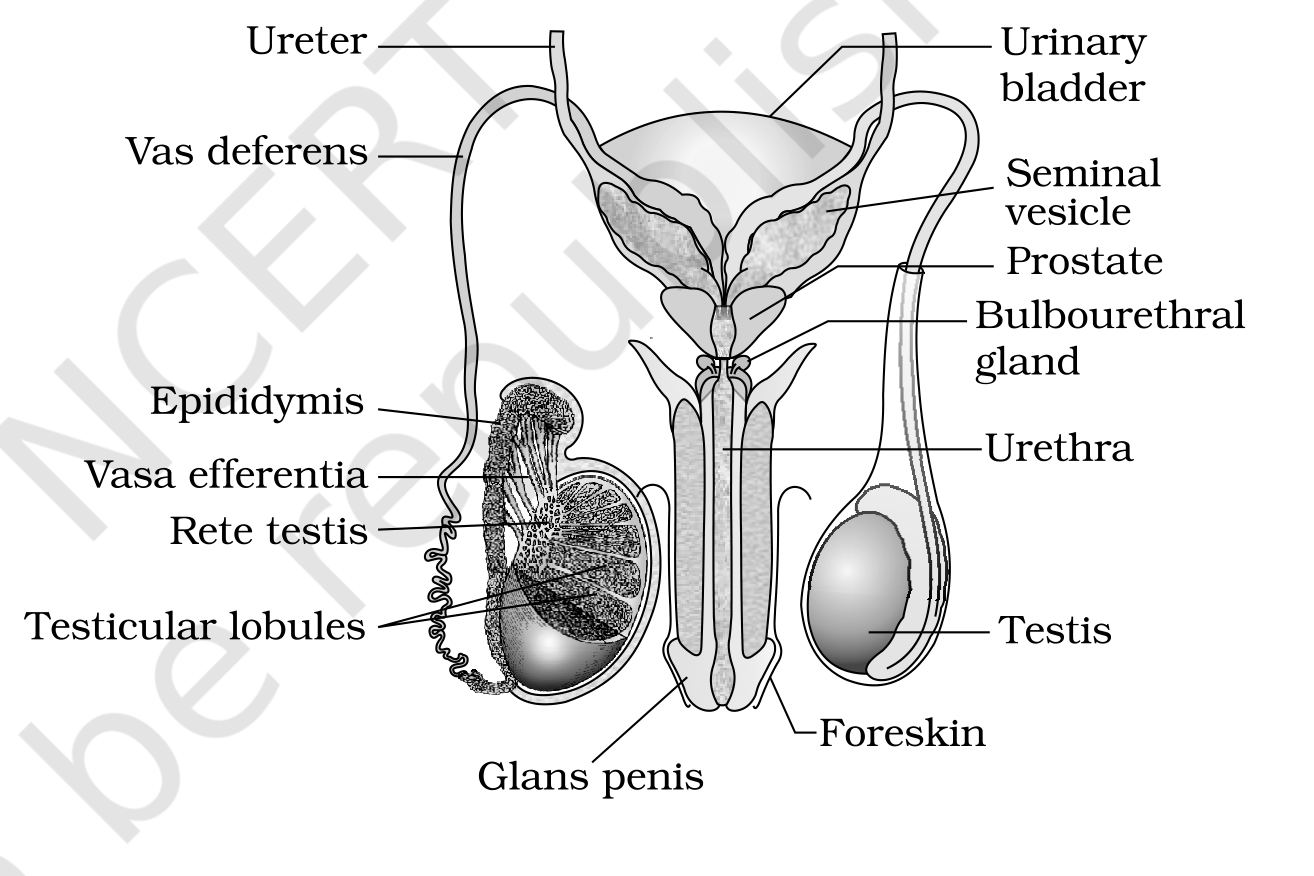
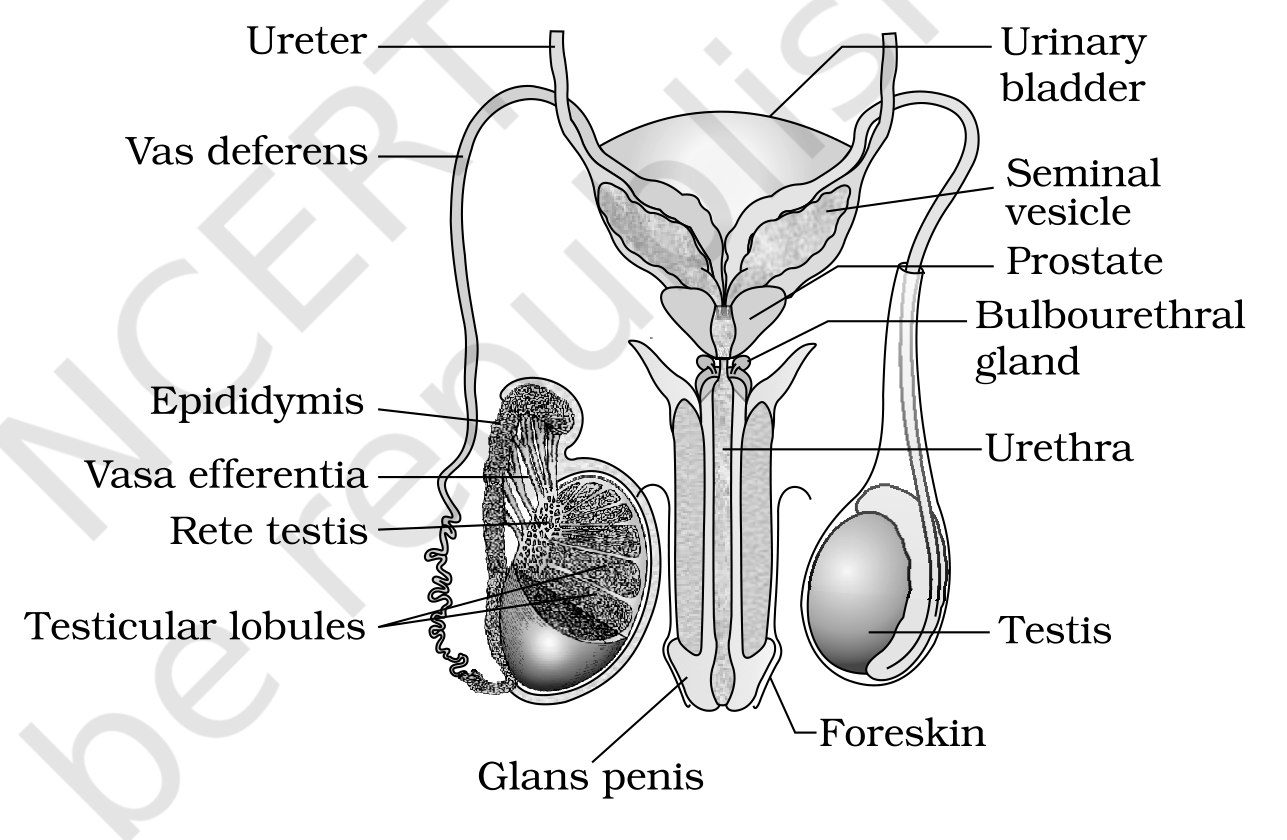
Tighten selected Human Reproduction figure crops

diff --git a/notes/class 12/Ch2_HumanReproduction/extract_figures.py b/notes/class 12/Ch2_HumanReproduction/extract_figures.py
@@ -1,50 +1,56 @@
-"""§4.4 figure extraction for Class 12 Ch2 Human Reproduction.
+"""§4.4 reproducible figure extraction for Class 12 Ch2 Human Reproduction.
 
-Rectangles are source-PDF points, freshly cross-checked against the 4× grid
-rendered from the current source PDF. Captions and page furniture are excluded.
-All output assets are rendered at 300 dpi and converted to true grayscale with
-Pillow autocontrast.
+Rectangles are source-PDF points, cross-checked against the fresh 4× grids.
+Captions and page furniture are excluded. Outputs are rendered at 300 dpi,
+converted to true grayscale, and tightened to approximately 10 pt padding
+around meaningful printed figure ink. Figure 2.1a additionally removes the
+adjacent prose strip while preserving every anatomical label.
 """
 import os
 import sys
+import numpy as np
 import pymupdf
 from PIL import Image, ImageOps
 
 SRC = 'Chapter/class 12/Chapter 2 - Human Reproduction.pdf'
 OUT_DIR = 'notes/class 12/Ch2_HumanReproduction/assets'
 RENDER_DPI = 300
+PAD = round(10 / 72 * RENDER_DPI)
 
-# (asset_id, 1-indexed PDF page, (x0, y0, x1, y1))
 FIGS = [
-    # p2 upper male-pelvis diagram; clears prose column and caption below y300.
-    ('2_1a', 2, (235, 78, 545, 260)),
-    # p2 lower male reproductive-system diagram; bottom clears page furniture.
+    ('2_1a', 2, (195, 78, 545, 260)),
     ('2_1b', 2, (215, 315, 530, 525)),
-    # p3 seminiferous-tubule plate; caption begins below the artwork.
     ('2_2', 3, (160, 82, 535, 345)),
-    # p4 upper female-pelvis plate; caption begins below y350.
     ('2_3a', 4, (35, 78, 500, 335)),
-    # p4 lower female-system plate; caption begins below y690.
     ('2_3b', 4, (38, 465, 485, 675)),
-    # p5 mammary-gland diagram; caption begins below y690.
     ('2_4', 5, (172, 445, 520, 680)),
-    # p6 enlarged seminiferous tubule; caption begins below y605.
     ('2_5', 6, (268, 355, 530, 555)),
-    # p7 sperm structure; caption begins below y385.
     ('2_6', 7, (48, 82, 290, 350)),
-    # p8 ovary section; caption begins below y315.
     ('2_7', 8, (240, 78, 510, 270)),
-    # p8 combined spermatogenesis/oogenesis schematic with shared annotations.
     ('2_8', 8, (35, 340, 540, 565)),
-    # p9 full menstrual-cycle chart; caption begins below y475.
     ('2_9', 9, (112, 78, 520, 480)),
-    # p10 ovum and sperm diagram; caption begins below y700.
     ('2_10', 10, (225, 430, 475, 665)),
-    # p11 connected multi-stage transport/fertilisation/implantation figure.
     ('2_11', 11, (120, 400, 495, 645)),
-    # p12 foetus within uterus; caption begins below y700.
-    ('2_12', 12, (190, 465, 470, 680)),
+    ('2_12', 12, (190, 465, 510, 680)),
 ]
+
+# The requested set is tightened; 2.8 appeared twice in the user request.
+TIGHT_IDS = {'2_8', '2_12', '2_1a', '2_3b', '2_3a', '2_11', '2_1b'}
+
+def tighten(img, fid):
+    a = np.asarray(img)
+    ys, xs = np.where(a < 100)  # suppress faint watermark/page furniture
+    if len(xs) == 0:
+        return img
+    x0 = max(0, int(xs.min()) - PAD)
+    y0 = max(0, int(ys.min()) - PAD)
+    x1 = min(img.width, int(xs.max()) + 1 + PAD)
+    y1 = min(img.height, int(ys.max()) + 1 + PAD)
+    if fid == '2_1a':
+        # The source prose column touches the left raster edge; remove it
+        # without cutting the first anatomical label.
+        x0 = min(x1 - 1, max(x0, 82))
+    return img.crop((x0, y0, x1, y1))
 
 def main():
     os.makedirs(OUT_DIR, exist_ok=True)
@@ -54,10 +60,13 @@ def main():
             page = doc[pno - 1]
             clip = pymupdf.Rect(*rect) & page.rect
             pix = page.get_pixmap(clip=clip, dpi=RENDER_DPI, alpha=False)
-            img = ImageOps.autocontrast(Image.frombytes('RGB', (pix.width, pix.height), pix.samples).convert('L'), cutoff=1)
+            img = Image.frombytes('RGB', (pix.width, pix.height), pix.samples).convert('L')
+            img = ImageOps.autocontrast(img, cutoff=1)
+            if fid in TIGHT_IDS:
+                img = tighten(img, fid)
             out = os.path.join(OUT_DIR, f'fig_{fid}.png')
             img.save(out)
-            print(f'fig_{fid}: page {pno} rect={rect} size={img.size} mode={img.mode} -> {out}')
+            print(f'fig_{fid}: page={pno} rect={rect} size={img.size} mode={img.mode} -> {out}')
     finally:
         doc.close()
 

diff --git a/notes/class 12/Ch2_HumanReproduction/Ch2_figure_audit.md b/notes/class 12/Ch2_HumanReproduction/Ch2_figure_audit.md
@@ -48,3 +48,7 @@ Run from the repository root:
 [1]: `../../../../Chapter/class 12/Chapter 2 - Human Reproduction.pdf` "NCERT Biology, Class 12, Chapter 2: Human Reproduction"
 [2]: `../../../../SUPREME COMMAND PROMPT.md` "Repository SUPREME COMMAND prompt"
 [3]: `../../../../skills/ncert-figure-extraction/SKILL.md` "ncert-figure-extraction workflow"
+
+## User-requested tight-crop revision
+
+The requested assets were re-cropped to remove excess whitespace using approximately 10 pt padding around meaningful printed figure ink: Figures 2.8, 2.12, 2.1a, 2.3b, 2.3a, 2.11, and 2.1b. Figure 2.8 was listed twice and was processed once. Figure 2.1a received an additional left-edge cleanup to remove the adjacent prose strip while preserving all left-side anatomical labels. Final individual checks confirmed the label sets remain strictly visible for Figures 2.3a, 2.3b, 2.8, 2.12, and 2.1a.

diff --git a/notes/class 12/Ch2_HumanReproduction/Ch2_HumanReproduction_inventory.md b/notes/class 12/Ch2_HumanReproduction/Ch2_HumanReproduction_inventory.md
@@ -70,3 +70,7 @@ Run from the repository root:
 [1]: `../../../../Chapter/class 12/Chapter 2 - Human Reproduction.pdf` "NCERT Biology, Class 12, Chapter 2: Human Reproduction"
 [2]: `../../../../SUPREME COMMAND PROMPT.md` "Repository SUPREME COMMAND prompt"
 [3]: `../../../../skills/ncert-figure-extraction/SKILL.md` "ncert-figure-extraction workflow"
+
+## Tight-crop revision
+
+At the user’s request, Figures 2.8, 2.12, 2.1a, 2.3b, 2.3a, 2.11, and 2.1b were tightened to approximately 10 pt padding around meaningful printed ink. Figure 2.8 appeared twice in the request and was processed once. Figure 2.1a received an additional left-edge cleanup to remove adjacent prose while retaining every anatomical label.
